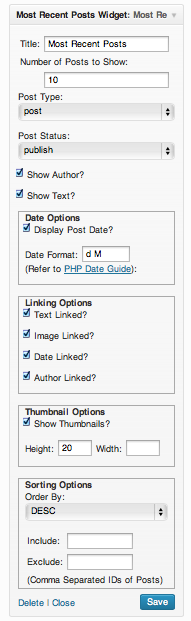
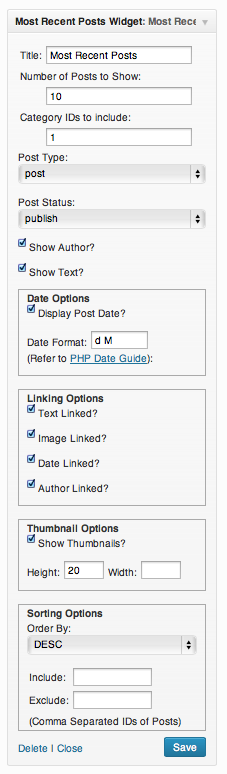
Most Recent Posts 1.1 Plugin: Categories Update
git-svn-id: https://plugins.svn.wordpress.org/most-recent-posts/trunk@724463 b8457f37-d9ea-0310-8a92-e5e31aec5664

Changed region(s): [[0.0524, 0.0, 0.9162, 1.0], [0.9424, 0.0, 0.9686, 1.0], [0.0262, 0.0306, 0.0524, 0.3671]]

diff --git a/most-recent-posts-widget.php b/most-recent-posts-widget.php
@@ -59,6 +59,7 @@ class Most_Recent_Posts_Widget extends WP_Widget {
 		$showauthor			= $instance['showauthor'];									
 		$linkauthor			= $instance['linkauthor'];	
 		$showtext			= $instance['showtext'];		
+		$category			= $instance['category'];			
 
 		/* Before widget (defined by themes). */
 		echo $before_widget;
@@ -85,6 +86,8 @@ class Most_Recent_Posts_Widget extends WP_Widget {
 		$ps			= '';
 		if($post_status)
 		{	$ps		= ' post_status="'.$post_status.'"';   }				
+		if($category)
+		{	$ct		= ' category="'.$category.'"';   }	
 		if($show_date)
 		{	
 			$sd		= ' show_date="'.$show_date.'"';   
@@ -109,7 +112,7 @@ class Most_Recent_Posts_Widget extends WP_Widget {
 		if($showtext)
 		{	$st		= ' showtext="'.$showtext.'"';	}			
 				
-		$shortcode = '[mostrecentposts '.$np.$ob.$in.$st.$ex.$pt.$ps.$sd.$df.$tn.$tw.$th.$lt.$li.$ld.$sa.$la.' ]';
+		$shortcode = '[mostrecentposts '.$np.$ob.$in.$ct.$st.$ex.$pt.$ps.$sd.$df.$tn.$tw.$th.$lt.$li.$ld.$sa.$la.' ]';
 		
 			echo '<p>';
 			echo (do_shortcode($shortcode));			
@@ -143,6 +146,7 @@ class Most_Recent_Posts_Widget extends WP_Widget {
 		$instance['showauthor']			= strip_tags( $new_instance['showauthor'] );	
 		$instance['linkauthor']			= strip_tags( $new_instance['linkauthor'] );																	
 		$instance['showtext']			= strip_tags( $new_instance['showtext'] );	
+		$instance['category']			= strip_tags( $new_instance['category'] );			
 
 		return $instance;
 	}
@@ -175,6 +179,17 @@ class Most_Recent_Posts_Widget extends WP_Widget {
 			<input style="float:right" id="<?php echo $this->get_field_id( 'numposts' ); ?>" name="<?php echo $this->get_field_name( 'numposts' ); ?>" value="<?php echo $instance['numposts']; ?>" style="width:20%;"/>
 		</td>
 		</tr>
+		<!-- Category: Category IDs -->
+		<tr>
+		<td colspan="2">
+			<label for="<?php echo $this->get_field_id( 'category' ); ?>"><?php _e('Category IDs to include:', 'mostrecentpostswidget'); ?></label>
+		</td>
+		</tr>
+		<tr>
+		<td colspan="2" align="right">
+			<input style="float:right" id="<?php echo $this->get_field_id( 'category' ); ?>" name="<?php echo $this->get_field_name( 'category' ); ?>" value="<?php echo $instance['category']; ?>" style="width:20%;"/>
+		</td>
+		</tr>		
 		</table>
 		<!-- Widget Title: Post Type Input -->
 		<p>
@@ -235,6 +250,7 @@ class Most_Recent_Posts_Widget extends WP_Widget {
 		?>
 		</p>	
 		<p>
+			
 		<?php $showauthorchecked = esc_attr($instance['showauthor']); ?>
 			<input id="<?php echo $this->get_field_id('showauthor'); ?>" name="<?php echo $this->get_field_name('showauthor'); ?>" value="1" type="checkbox" <?php checked( '1', $showauthorchecked ); ?> />
 			<label for="<?php echo $this->get_field_id( 'showauthor' ); ?>"><?php _e('Show Author?', 'mostrecentpostswidget'); ?></label>

diff --git a/pages.php b/pages.php
@@ -71,6 +71,7 @@ function MRPShortcodes()
 	$content .= '<tr><th>Shortcode Attribute</th><th>Shortcode Possible Values</th><th>Shortcode Description</th></tr>';
 	$content .= '<tr><td>numposts</td><td>1 to X (Integer) </td><td>Maximum Number of Posts To Display</td></tr>';	
 	$content .= '<tr><td>showtext</td><td>1</td><td>Show text.  Should always set to 1.  Can be left out when a featured image is used instead of a textual link.</td></tr>';						
+	$content .= '<tr><td>category</td><td>1,5</td><td>Comma Separated IDs of categories of posts.  If all categories are needed, leave blank in widget or have no category attribute.</td></tr>';							
 	$content .= '<tr><td>orderby</td><td>ASC or DESC </td><td>Display by Ascending or Descending Order</td></tr>';		
 	$content .= '<tr><td>include</td><td>1,2,3</td><td>Comma Separated IDs of posts to include in list</td></tr>';		
 	$content .= '<tr><td>exclude</td><td>1,2,3</td><td>Comma Separated IDs of posts to exclude in list</td></tr>';			

diff --git a/most-recent-posts.php b/most-recent-posts.php
@@ -74,12 +74,13 @@ Class most_recent_posts {
 										 'linkdate' => '',
 										 'showauthor' => '',
 										 'linkauthor' => '',
-										 'showtext' => ''), $atts));
+										 'showtext' => '',
+										 'category' => ''), $atts));
 						
 			$args = array(
 				'numberposts' => $numposts,
 				'offset' => 0,
-				'category' => 0,
+				'category' => $category,
 				'orderby' => 'post_date',
 				'order' => $orderby,
 				'include' => $include,
